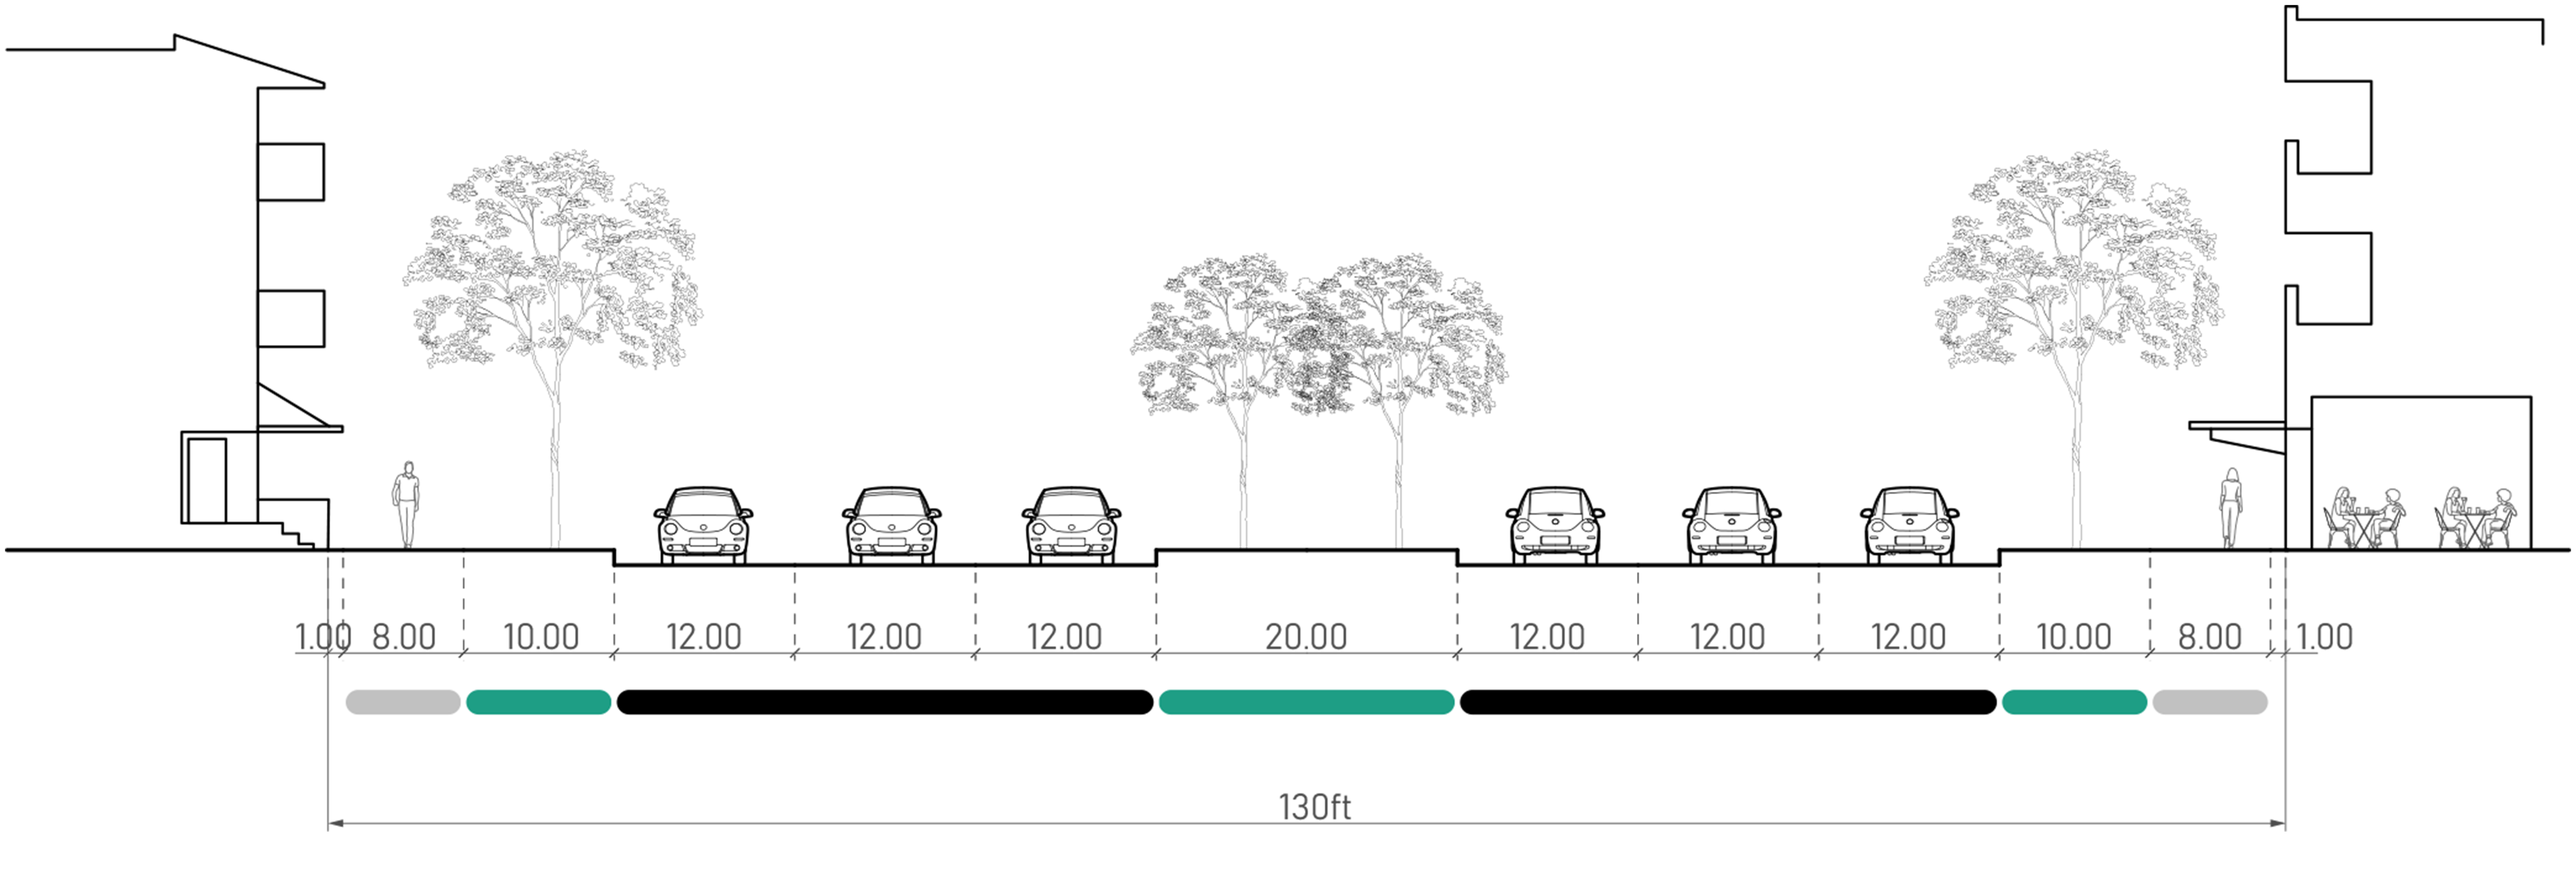
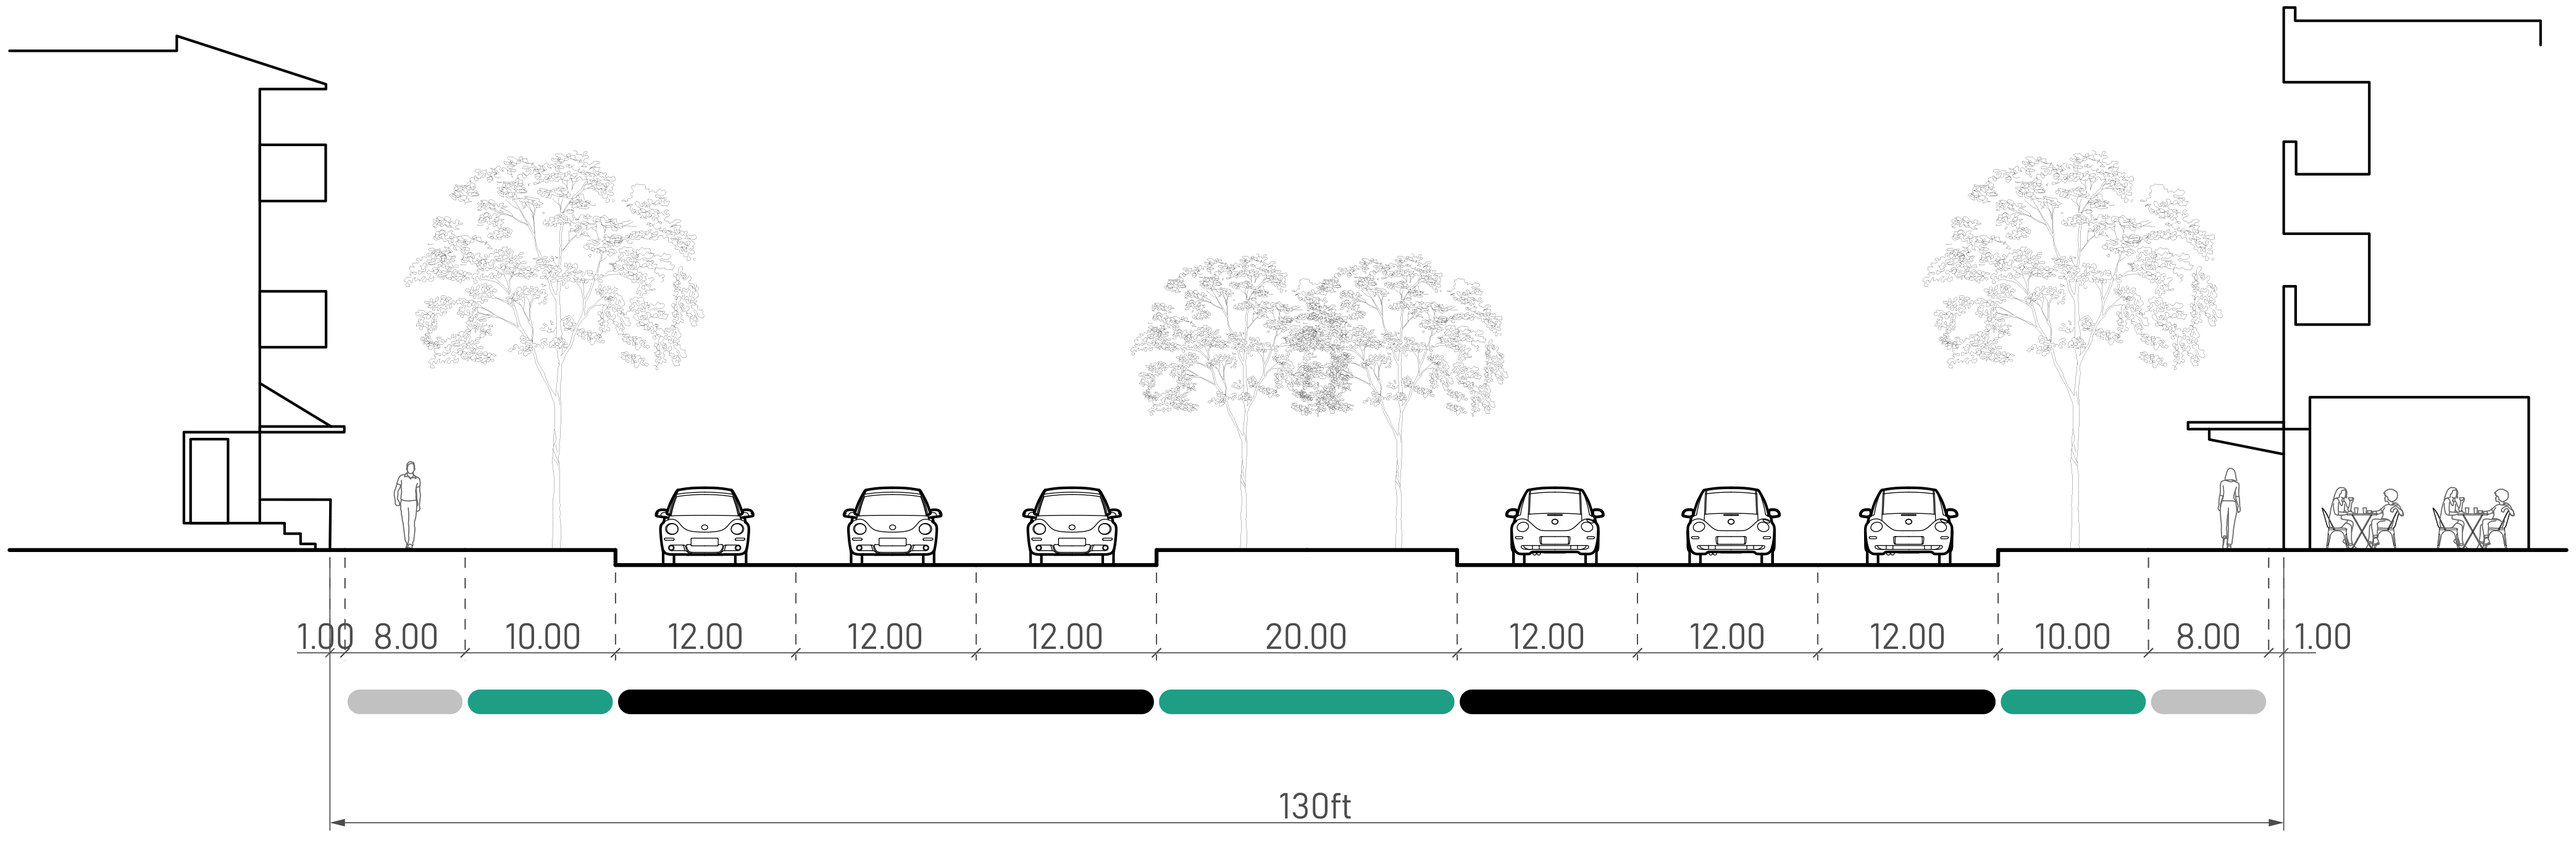
Add Image

diff --git a/app/nogas/src/views/case-studies/MaximizeMicromobility.js b/app/nogas/src/views/case-studies/MaximizeMicromobility.js
@@ -12,10 +12,10 @@ import CaseStudyLanding from "../../components/caseStudies/caseStudyLanding";
 import CaseStudyVision from "../../components/caseStudies/caseStudyVision";
 import ImageSlider from "../../components/ImageSlider";
 
-import headerImage from "../../img/4_Case Study 02_ Preparing for Future Growth/0_Cover/1.png";
-import backgroundImage from "../../img/4_Case Study 02_ Preparing for Future Growth/2_Background/0_Cover/1.jpg";
-import beforeImage from '../../img/4_Case Study 02_ Preparing for Future Growth/3_Vision/Slider_Before.png'
-import afterImage from "../../img/4_Case Study 02_ Preparing for Future Growth/3_Vision/Slider_After.png";
+import headerImage from "../../img/6_Case Study 04_ Maximizing Micro-mobility/0_Cover/1.png";
+import backgroundImage from "../../img/6_Case Study 04_ Maximizing Micro-mobility/2_Background/0_Cover/1.png";
+import beforeImage from '../../img/6_Case Study 04_ Maximizing Micro-mobility/3_Vision/Section_Existing.png'
+import afterImage from "../../img/6_Case Study 04_ Maximizing Micro-mobility/3_Vision/Section_Long Term.png";
 import densityImage from '../../img/4_Case Study 02_ Preparing for Future Growth/3_Vision/Smart Density.png'
 import vehUsageImage from "../../img/4_Case Study 02_ Preparing for Future Growth/3_Vision/Vehicle Usage.png";
 import envPerfImage from "../../img/4_Case Study 02_ Preparing for Future Growth/3_Vision/Better Envir-performance.png";
@@ -31,7 +31,7 @@ export default function MaximizingMicromobility() {
         <
         ResponsiveAppBar / >
         <
-        CaseStudyLanding image = { '' }
+        CaseStudyLanding image = { headerImage }
         title = "MAXIMIZING MICRO-MOBILITY"
         subtitle = "Streetscape Adaption"
         body = {
@@ -50,7 +50,7 @@ export default function MaximizingMicromobility() {
         <
         CaseStudyBackground title = "BACKGROUND"
         subtitle = "Car-dominated Travel Mode"
-        image = { '' }
+        image = { backgroundImage }
         body = {
             [
                 `The average width of an American residential street is 55 feet, which is three times the average street 
@@ -60,12 +60,12 @@ export default function MaximizingMicromobility() {
         }
         stats = {
             [
-                { pct: "1876", text: "Anual Household Vehicle Trips" },
+                { pct: "55ft", text: "Average Width of Residential Street" },
                 {
-                    pct: "25%+",
-                    text: "Residential Land Devoted to Vehicular Surfaces",
+                    pct: "19642",
+                    text: "miles Annual VMT per Household",
                 },
-                { pct: "35%+", text: "GHG Emissions Reduction Potential" },
+                { pct: "85%+", text: "Workers Drive to Work" },
             ]
         }
         />
@@ -75,8 +75,8 @@ export default function MaximizingMicromobility() {
             { width: "100vw", height: "70vh", overflowY: "hidden" }
         } >
         <
-        ImageSlider leftImage = { '' }
-        rightImage = { '' }
+        ImageSlider leftImage = { beforeImage }
+        rightImage = { afterImage }
         /> < /
         Grid > <
         CaseStudyVision title = "VISION"

diff --git a/app/nogas/src/views/case-studies/LayeringSustainability.js b/app/nogas/src/views/case-studies/LayeringSustainability.js
@@ -12,10 +12,10 @@ import CaseStudyLanding from "../../components/caseStudies/caseStudyLanding";
 import CaseStudyVision from "../../components/caseStudies/caseStudyVision";
 import ImageSlider from "../../components/ImageSlider";
 
-import headerImage from "../../img/4_Case Study 02_ Preparing for Future Growth/0_Cover/1.png";
-import backgroundImage from "../../img/4_Case Study 02_ Preparing for Future Growth/2_Background/0_Cover/1.jpg";
-import beforeImage from '../../img/4_Case Study 02_ Preparing for Future Growth/3_Vision/Slider_Before.png'
-import afterImage from "../../img/4_Case Study 02_ Preparing for Future Growth/3_Vision/Slider_After.png";
+import headerImage from "../../img/5_Case Study 03_ Layering Sustainability/0_Cover/1.png";
+import backgroundImage from "../../img/5_Case Study 03_ Layering Sustainability/2_Background/0_Cover/1.png";
+import beforeImage from '../../img/5_Case Study 03_ Layering Sustainability/3_Vision/Slider_Before.png'
+import afterImage from "../../img/5_Case Study 03_ Layering Sustainability/3_Vision/Slider_After.png";
 import densityImage from '../../img/4_Case Study 02_ Preparing for Future Growth/3_Vision/Smart Density.png'
 import vehUsageImage from "../../img/4_Case Study 02_ Preparing for Future Growth/3_Vision/Vehicle Usage.png";
 import envPerfImage from "../../img/4_Case Study 02_ Preparing for Future Growth/3_Vision/Better Envir-performance.png";
@@ -32,7 +32,7 @@ export default function LayeringSustability() {
         <
         ResponsiveAppBar / >
         <
-        CaseStudyLanding image = { '' }
+        CaseStudyLanding image = { headerImage }
         title = "LAYERING SUSTAINABILITY"
         subtitle = "Landscape Optimization"
         body = {
@@ -50,7 +50,7 @@ export default function LayeringSustability() {
         <
         CaseStudyBackground title = "BACKGROUND"
         subtitle = "Suburban Climate Effects"
-        image = { '' }
+        image = { backgroundImage }
         body = {
             [
                 `Today, communities around the world are facing the dramatic effects of climate change. In 2021, 
@@ -62,12 +62,12 @@ export default function LayeringSustability() {
         }
         stats = {
             [
-                { pct: "1876", text: "Anual Household Vehicle Trips" },
+                { pct: "1300+", text: "Heat-related Death per year in U.S." },
                 {
-                    pct: "25%+",
-                    text: "Residential Land Devoted to Vehicular Surfaces",
+                    pct: "80%+",
+                    text: "Americans Experienced a Heat Wave in 2021",
                 },
-                { pct: "35%+", text: "GHG Emissions Reduction Potential" },
+                { pct: "20°F+", text: "Cooler Temperature under Tree Shade" },
             ]
         }
         />
@@ -77,8 +77,8 @@ export default function LayeringSustability() {
             { width: "100vw", height: "70vh", overflowY: "hidden" }
         } >
         <
-        ImageSlider leftImage = { '' }
-        rightImage = { '' }
+        ImageSlider leftImage = { beforeImage }
+        rightImage = { afterImage }
         /> < /
         Grid > <
         CaseStudyVision title = "VISION"

diff --git a/app/nogas/src/views/case-studies/FutureOfWork.js b/app/nogas/src/views/case-studies/FutureOfWork.js
@@ -12,10 +12,10 @@ import CaseStudyLanding from "../../components/caseStudies/caseStudyLanding";
 import CaseStudyVision from "../../components/caseStudies/caseStudyVision";
 import ImageSlider from "../../components/ImageSlider";
 
-import headerImage from "../../img/4_Case Study 02_ Preparing for Future Growth/0_Cover/1.png";
-import backgroundImage from "../../img/4_Case Study 02_ Preparing for Future Growth/2_Background/0_Cover/1.jpg";
-import beforeImage from '../../img/4_Case Study 02_ Preparing for Future Growth/3_Vision/Slider_Before.png'
-import afterImage from "../../img/4_Case Study 02_ Preparing for Future Growth/3_Vision/Slider_After.png";
+import headerImage from "../../img/7_Case Study 05_ Designing the Future of Work/0_Cover/1.png";
+import backgroundImage from "../../img/7_Case Study 05_ Designing the Future of Work/2_Background/0_Cover/1.jpg";
+import beforeImage from '../../img/7_Case Study 05_ Designing the Future of Work/3_Vision/Slider_Before.png'
+import afterImage from "../../img/7_Case Study 05_ Designing the Future of Work/3_Vision/Slider_After.png";
 import densityImage from '../../img/4_Case Study 02_ Preparing for Future Growth/3_Vision/Smart Density.png'
 import vehUsageImage from "../../img/4_Case Study 02_ Preparing for Future Growth/3_Vision/Vehicle Usage.png";
 import envPerfImage from "../../img/4_Case Study 02_ Preparing for Future Growth/3_Vision/Better Envir-performance.png";
@@ -52,7 +52,7 @@ export default function FutureOfWork() {
         <
         CaseStudyBackground title = "BACKGROUND"
         subtitle = "Outdated Employment Campus Design"
-        image = { "" }
+        image = { backgroundImage }
         body = {
             [
                 `The design of suburban campuses themselves hasn’t evolved much over the past several decades. The 
@@ -62,12 +62,12 @@ export default function FutureOfWork() {
         }
         stats = {
             [
-                { pct: "1876", text: "Anual Household Vehicle Trips" },
+                { pct: "30%+", text: "U.S. Employments is in Suburbs" },
                 {
-                    pct: "25%+",
-                    text: "Residential Land Devoted to Vehicular Surfaces",
+                    pct: "50%+",
+                    text: "Campus Land Devoted to Vehicular Surfaces",
                 },
-                { pct: "35%+", text: "GHG Emissions Reduction Potential" },
+                { pct: "0", text: "Walkable Access to Public Transit" },
             ]
         }
         />
@@ -77,8 +77,8 @@ export default function FutureOfWork() {
             { width: "100vw", height: "70vh", overflowY: "hidden" }
         } >
         <
-        ImageSlider leftImage = { "" }
-        rightImage = { "" }
+        ImageSlider leftImage = { beforeImage }
+        rightImage = { afterImage }
         /> < /
         Grid > <
         CaseStudyVision title = "VISION"

diff --git a/app/nogas/src/views/case-studies/ImprovingEquitableAccess.js b/app/nogas/src/views/case-studies/ImprovingEquitableAccess.js
@@ -168,7 +168,7 @@ export default function ImprovingEquitableAccess() {
         br > < /br> <
         Typography variant = "sectionSubtitle" >
         Neighborhood Optimization with OASIS <
-        /Typography> <
+        /Typography>  <
         hr color = "EC008C" > < /hr> <
         Typography variant = "bodyBlack" >
         OASIS is a parametric toolbox that can help planners and developers optimize neighborhood - scale land use and mobility frameworks.The access optimization tool of OASIS toolbox can analyze and optimize accessbility index of given neighrohood masterplan to generate the optimal scenario with more equitable access. <
@@ -210,7 +210,7 @@ export default function ImprovingEquitableAccess() {
                 />
             ))
         } <
-        /Carousel> < /
+        /Carousel>   < /
         Grid > <
         Grid item xs = { 0 }
         sm = { 3 } > < /Grid> <
@@ -220,7 +220,7 @@ export default function ImprovingEquitableAccess() {
         Typography variant = "body2" >
         Click through the various scenarios above to see how access optimization tool of OASIS can generate different masterplan scenarios with optimized accessibility performance
         for all population groups. <
-        /Typography> < /
+        /Typography>  < /
         Grid > <
         Grid item xs = { 0 }
         sm = { 3 } > < /Grid> < /

diff --git a/app/nogas/src/Theme.js b/app/nogas/src/Theme.js
@@ -43,13 +43,13 @@ export const NOGASTheme = createTheme({
             color: "black",
         },
         sectionSubtitle: {
-            fontSize: "1.5rem",
+            fontSize: "1.8rem",
             fontWeight: "450",
             color: "black",
         },
         bodyBlack: {
             textAlign: "justify",
-            fontSize: "1.1em",
+            fontSize: "1.3em",
             fontWeight: 300,
             color: "black",
         },
@@ -72,14 +72,14 @@ export const NOGASTheme = createTheme({
         },
         mdStat: {
             textAlign: "justify",
-            fontSize: "1.9em",
+            fontSize: "2.3em",
             fontWeight: "600",
             color: "white",
         },
         mdStatText: {
             textAlign: "justify",
-            fontSize: "1.3em",
-            fontWeight: "400",
+            fontSize: "1em",
+            fontWeight: "250",
             color: "white",
         },
         iconCalloutStat: {
